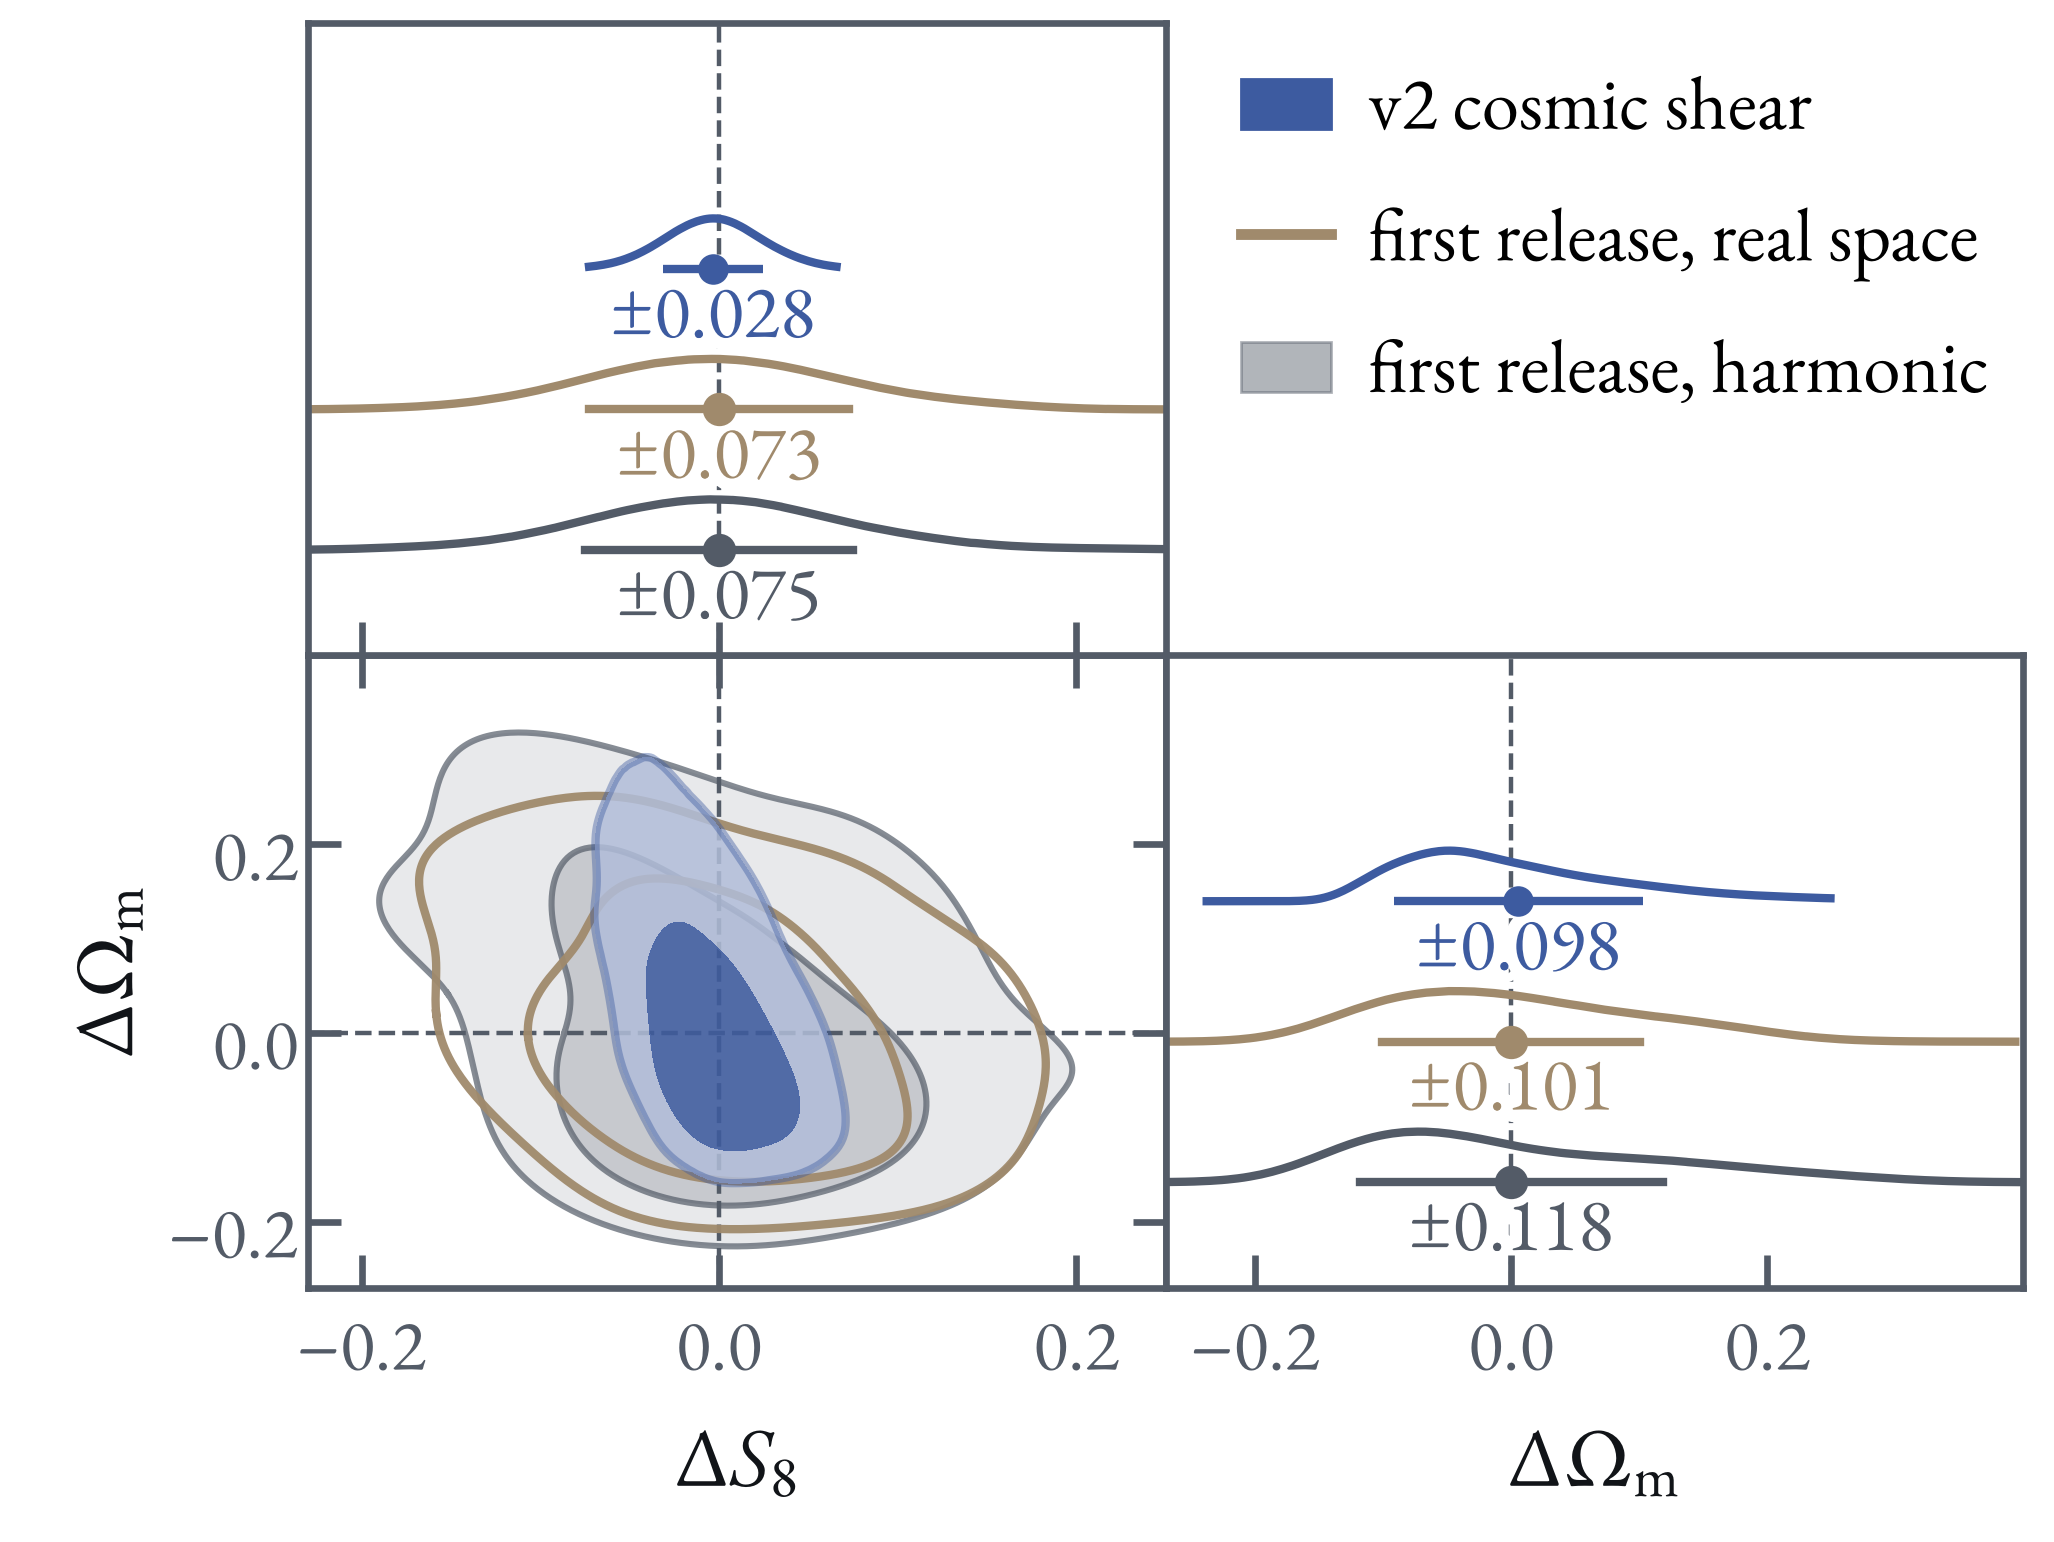
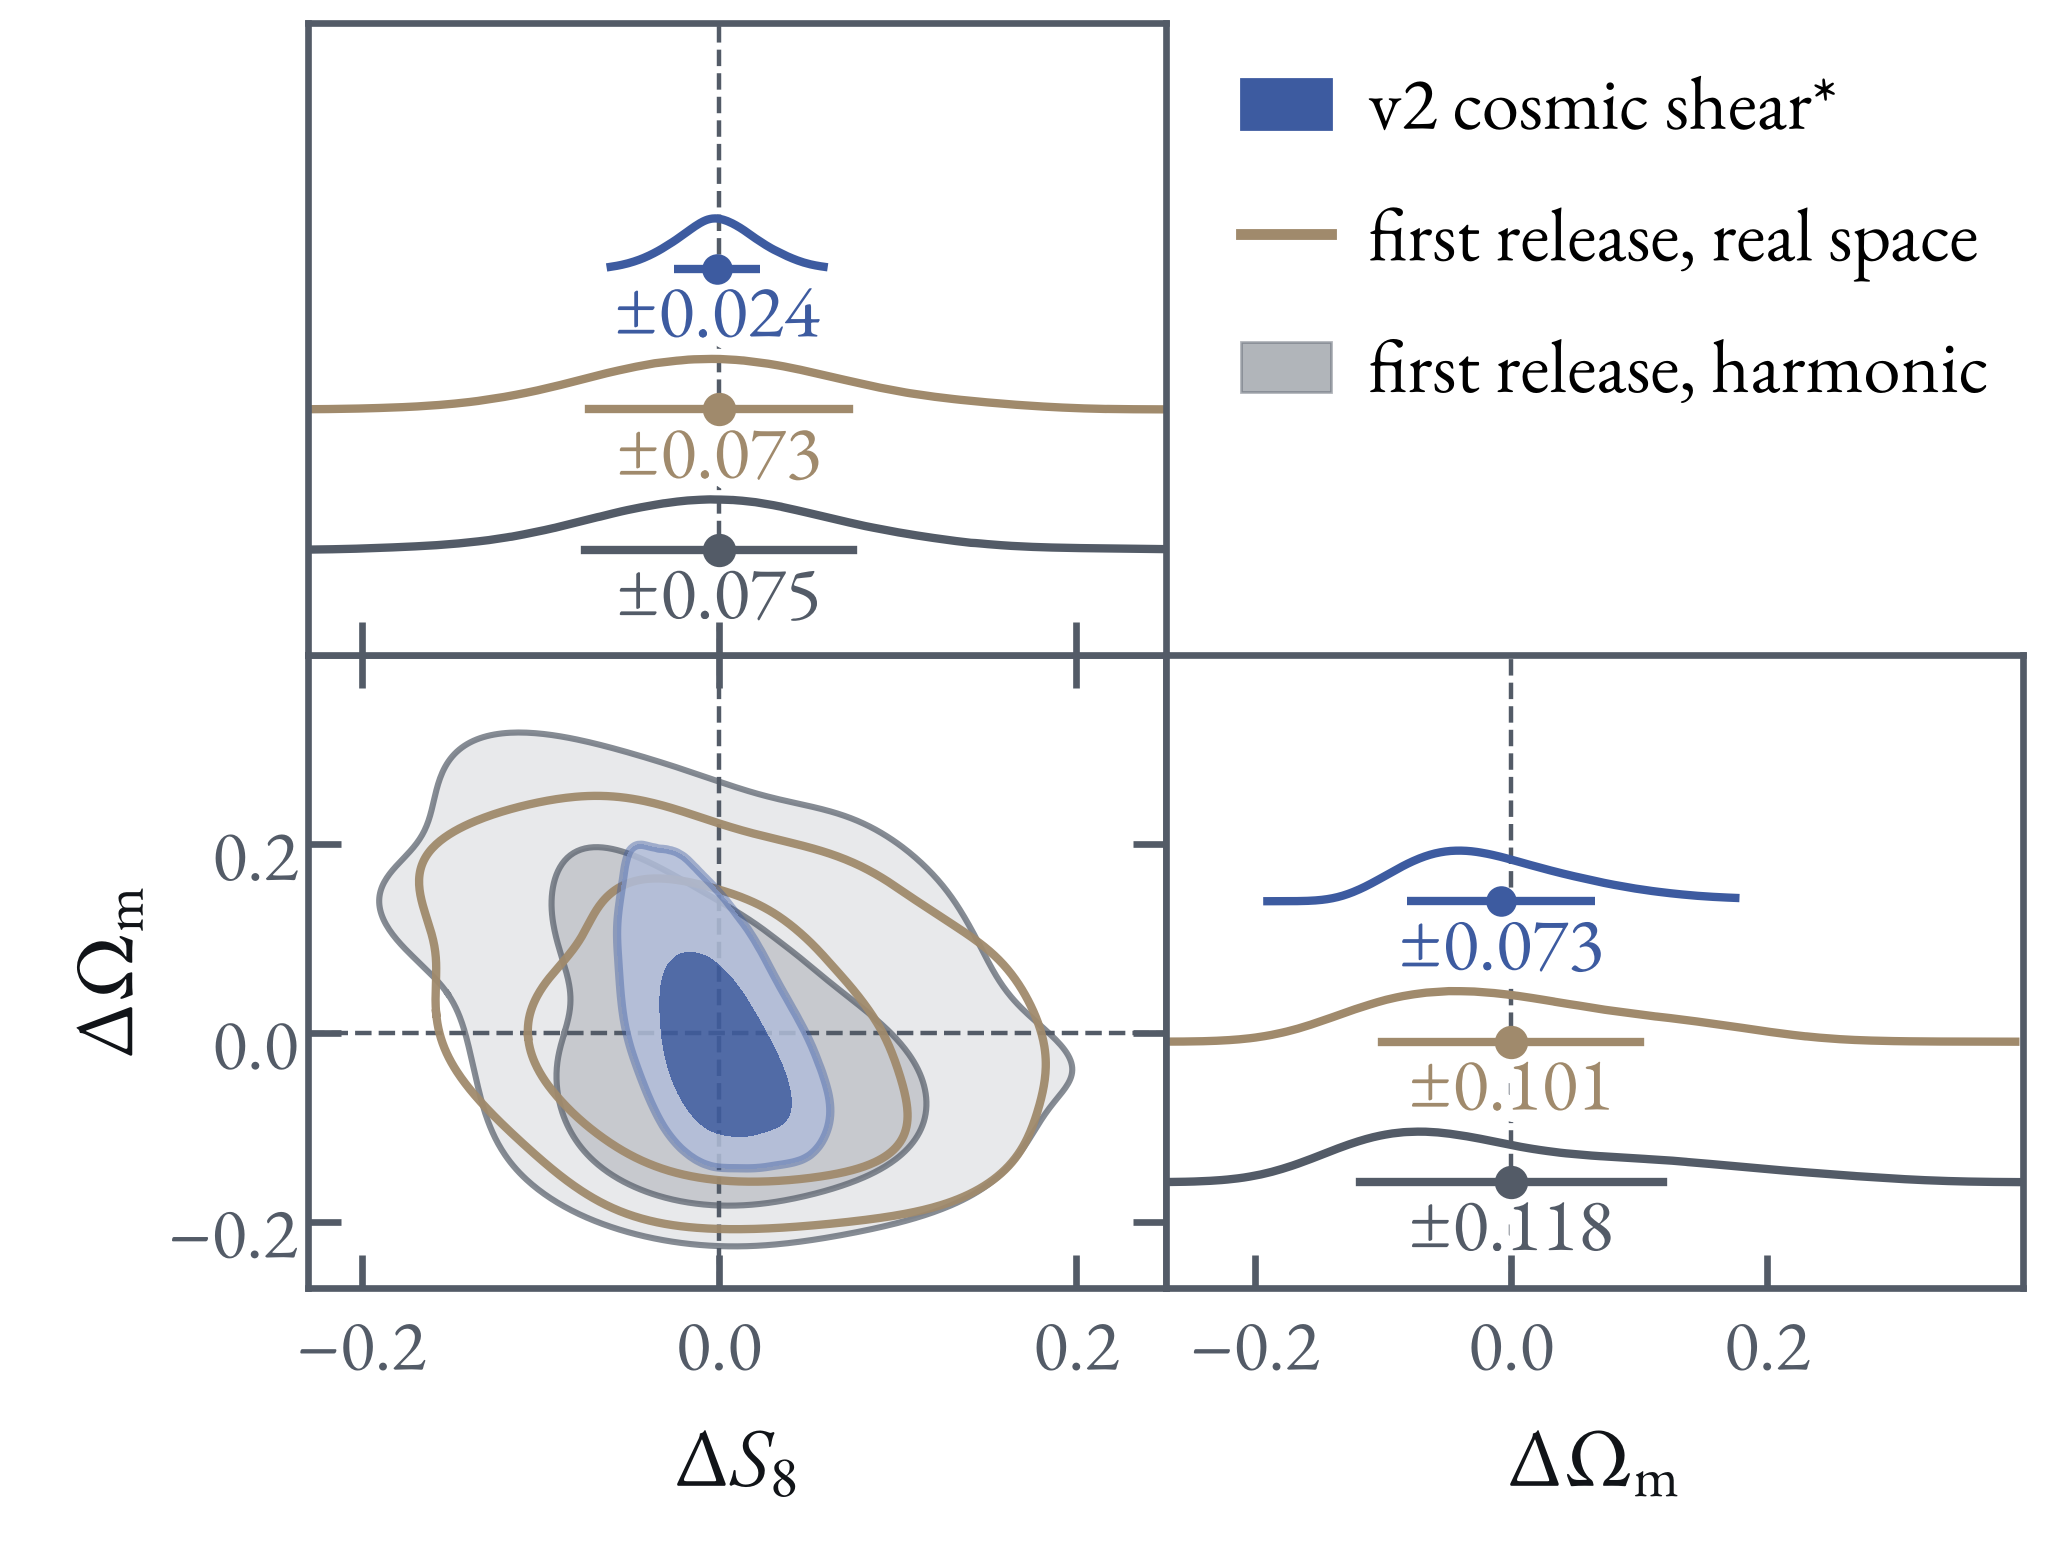
ICE unions-forecast: chains with the whole v2 shear weight in the tomographic bins (2.4 % on S8), the caveat and 'relatively conservative priors'
Claude-Session: https://claude.ai/code/session_01JK7o9HFnQ18NCbHtympTx9

diff --git a/2611_ICE_Barcelona/slides/unions-forecast.html b/2611_ICE_Barcelona/slides/unions-forecast.html
@@ -1,14 +1,21 @@
-<section data-layout="figure">
-  <h2>UNIONS 3×2pt is forecast to measure $S_8$ to 2.6 %</h2>
+<section data-layout="figure-text" data-split="60">
+  <h2>UNIONS 3×2pt is forecast to measure $S_8$ to 2.4 %</h2>
   <figure>
     <img src="images/ice_unions_forecast_0.png" alt="S8 against Omega_m for the first UNIONS release, in harmonic space and in real space: two wide contours of similar size, about 0.07 wide in S8">
-    <img class="fragment" data-fragment-index="1" src="images/ice_unions_forecast_1.png" alt="The forecast for UNIONS v2 tomographic cosmic shear drawn over them, nearly three times narrower in S8">
+    <img class="fragment" data-fragment-index="1" src="images/ice_unions_forecast_1.png" alt="The forecast for UNIONS v2 tomographic cosmic shear drawn over them, about three times narrower in S8">
     <img class="fragment" data-fragment-index="2" src="images/ice_unions_forecast_2.png" alt="The 3x2pt with SPHEREx lenses drawn over all of them: a compact contour around the input cosmology, between Omega_m of 0.23 and 0.42">
   </figure>
+  <div class="text">
+    <ul>
+      <li>relatively conservative priors</li>
+    </ul>
+    <p class="source">* assuming we can use 100 % of our shear weight in tomography</p>
+  </div>
   <aside class="notes">
     <ul class="skim">
       <li><strong>Contours</strong> — 68 % and 95 % of chains run on the model prediction itself: no noise is added to the data vector, so the posterior sits on the input cosmology ($S_8=0.839$, $\Omega_\mathrm{m}=0.319$, the origin of both axes) and its width is the expected error, which the covariance sets. No data vector is measured or looked at. Four tomographic source bins on 4,582 deg², alone and then with the five SPHEREx all-sky lens bins at $z=0.05$–$0.55$.</li>
-      <li><strong>Widths</strong> — shear alone $\sigma(S_8)=0.0278$, $\sigma(\Omega_\mathrm{m})=0.098$, $\sigma(\sigma_8)=0.127$. 3×2pt 0.0218, 0.0379, 0.061. A second sampler seed gives 0.0273 and 0.098, and 0.0215 and 0.0381, with 16,000 effective samples each. The $\Omega_\mathrm{m}$–$S_8$ figure of merit ($1/\sqrt{\det C}$) rises by a factor 3.0. The shear-only $\Omega_\mathrm{m}$ width is largely the prior's, so the gain on $\Omega_\mathrm{m}$ depends on it: $h<0.91$, $\ln(10^{10}A_s)<3.66$ and $0.085<\Omega_c h^2<0.2$ all cut that posterior. They do not cut the 3×2pt one.</li>
+      <li><strong>Drawn (the asterisk)</strong> — the four source bins carry the whole v2 sample's shear weight: each bin's density is multiplied by 1/0.54, so $n_{\rm eff}$ sums to 7.6 arcmin⁻² instead of 4.08, with the same $n(z)$ per bin. Shear alone $\sigma(S_8)=0.0239$, $\sigma(\Omega_\mathrm{m})=0.073$, $\sigma(\sigma_8)=0.107$. 3×2pt 0.0200, 0.0352, 0.058, which is 2.4 % on $S_8$. One sampler seed, 16,000 effective samples each (26 November, fir).</li>
+      <li><strong>With the bins' own densities</strong> — every other number in these notes: shear alone $\sigma(S_8)=0.0278$, $\sigma(\Omega_\mathrm{m})=0.098$, $\sigma(\sigma_8)=0.127$. 3×2pt 0.0218, 0.0379, 0.061 (2.6 %). A second sampler seed gives 0.0273 and 0.098, and 0.0215 and 0.0381, with 16,000 effective samples each. The $\Omega_\mathrm{m}$–$S_8$ figure of merit ($1/\sqrt{\det C}$) rises by a factor 3.0. The shear-only $\Omega_\mathrm{m}$ width is largely the prior's, so the gain on $\Omega_\mathrm{m}$ depends on it: $h<0.91$, $\ln(10^{10}A_s)<3.66$ and $0.085<\Omega_c h^2<0.2$ all cut that posterior. They do not cut the 3×2pt one.</li>
       <li><strong>With noise</strong> — twenty GLASS mocks (lognormal matter shells, lensing, intrinsic alignments, Poisson-sampled lenses, shape noise) measured with the same masked estimator and fitted with the same chain. The median width is 0.0220 on $S_8$ and 0.0386 on $\Omega_\mathrm{m}$, as forecast. The posterior means average $S_8=0.844\pm0.003$ and $\Omega_\mathrm{m}=0.321\pm0.009$ and scatter by 0.014 and 0.038; no mock is further than 1.7σ from the input. On one sky the $\Omega_\mathrm{m}$ width ranges from 0.030 to 0.060.</li>
       <li><strong>Scale cuts</strong> — shear uses $300<\ell<1600$, the cut on which the first release has B-modes consistent with zero. At $20<\ell<2000$ the 3×2pt gives 0.0211 and 0.0330, so its width changes by 3 % on $S_8$ and 13 % on $\Omega_\mathrm{m}$; the lenses already supply the large-scale information. Shear alone at that cut gives 0.0235 and 0.054, and at $100<\ell<1600$ 0.0274 and 0.070 (3×2pt 0.0214 and 0.035).</li>
       <li><strong>Limits on $S_8$</strong> — baryons first: with the feedback parameter $\log T_{\rm AGN}$ fixed, $\sigma(S_8)$ is 0.016 instead of 0.0218. Its prior is flat over the emulator's whole range (7.3–8.5) and the chain fills it, so 2.6 % is conservative there. Fixing intrinsic alignments, shear calibration, redshift shifts and magnification instead, with baryons and bias still free, gives 0.016. Most of that is source redshifts: the release's own n(z) realizations (0.006–0.012 on each bin's mean, against our 0.024) give 0.019. Halving the shear-calibration prior gives 0.021, and a Planck-width $n_s$ prior leaves the width unchanged.</li>
@@ -31,7 +38,7 @@
     <p>Calum Murray's Fisher code, given these inputs and priors, returns 0.0208 on $S_8$ and 0.0326 on $\Omega_\mathrm{m}$ (his review of 25 November), against our Fisher 0.0195 and 0.0334; its June headline of 0.0125 and 0.0152 fixed $h$, $n_s$ and $\Omega_b$ and used different sources, cuts and baryons. The earlier GLASS mock chain in real space, with stand-in lens bins and no nuisances, gave 0.0093 and 0.021. The Fisher forecast made for choosing the v2 n(z), cosmic shear alone with redshift priors near 0.01–0.02, gives 0.0113–0.0132 on $S_8$; its baryon treatment and scale range were not checked.</p>
     </details>
     <details><summary>Sources</summary>
-    <p>Figure 2611_ICE_Barcelona/make_unions_forecast.py; the first release from unions_release_contours.json, made by digitize_unions_release.py from the arXiv source of 2605.13543; summary in unions_forecast.json (v092f_* are the chains drawn, glass_* the GLASS mocks, mockg_* the Gaussian skies, unprefixed names the Leonardo set); chains of 25 November on fir, JAX CLOE likelihood with nested sampling, 10 minutes on 64 threads for the 3×2pt and 3 for shear alone. Code and recipe in the felt fiber unions-3x2pt-forecast, code/README.</p>
+    <p>Figure 2611_ICE_Barcelona/make_unions_forecast.py; the first release from unions_release_contours.json, made by digitize_unions_release.py from the arXiv source of 2605.13543; summary in unions_forecast.json (v092f100_* are the chains drawn, v092f_* the same with the bins' own densities, glass_* the GLASS mocks, mockg_* the Gaussian skies, unprefixed names the Leonardo set); chains of 25 November on fir, JAX CLOE likelihood with nested sampling, 10 minutes on 64 threads for the 3×2pt and 3 for shear alone. Code and recipe in the felt fiber unions-3x2pt-forecast, code/README.</p>
     </details>
   </aside>
 </section>

diff --git a/2611_ICE_Barcelona/make_unions_forecast.py b/2611_ICE_Barcelona/make_unions_forecast.py
@@ -1,8 +1,9 @@
 """UNIONS v2 forecast in the (Omega_m, S8) plane: cosmic shear alone, then the 3x2pt with the LSx lenses.
 
 Reads the nested-sampling posteriors (slim_fir.npz: derived parameters and weights of each chain). The two drawn are
-chains on the model prediction with no noise added, run on fir (~/scratch/ufc there): v092f_first_LL_hi_s1 and
-v092f_first_3x2_hi_s1. Names without a prefix are the 25 November chains from Leonardo, mockg_* chains on noisy Gaussian
+chains on the model prediction with no noise added, run on fir (~/scratch/ufc there): v092f100_first_LL_hi_s1 and
+v092f100_first_3x2_hi_s1, in which the four source bins carry the whole v2 sample's shear weight (their densities
+times 1/0.54; the asterisk in the legend). The v092f_* chains have the bins' own densities. Names without a prefix are the 25 November chains from Leonardo, mockg_* chains on noisy Gaussian
 skies and glass_* chains on GLASS mocks.
 The contours are drawn relative to the input cosmology. Under them are the first release's posteriors in harmonic
 and real space (unions_release_contours.json, read from the paper's figure by digitize_unions_release.py), each shifted
@@ -28,7 +29,7 @@ SHEAR, JOINT = '#3D5BA0', '#A8403A'
 TRUTH = dict(Omega_m=0.3190, S8=0.8387)
 RELEASES = [('harmonic', 'first release, harmonic', style.MUTED, True),
             ('real', 'first release, real space', '#A08A6C', False)]
-LAYERS = [('v092f_first_LL_hi_s1', 'v2 cosmic shear', SHEAR), ('v092f_first_3x2_hi_s1', 'v2 3×2pt', JOINT)]
+LAYERS = [('v092f100_first_LL_hi_s1', 'v2 cosmic shear*', SHEAR), ('v092f100_first_3x2_hi_s1', 'v2 3×2pt*', JOINT)]
 PEAK = .36     # height of a marginal density in units of the row spacing, which leaves air above each curve
 SMOOTH = 5.   # degrees: width of the smoothing of a digitized contour around its centre
 
